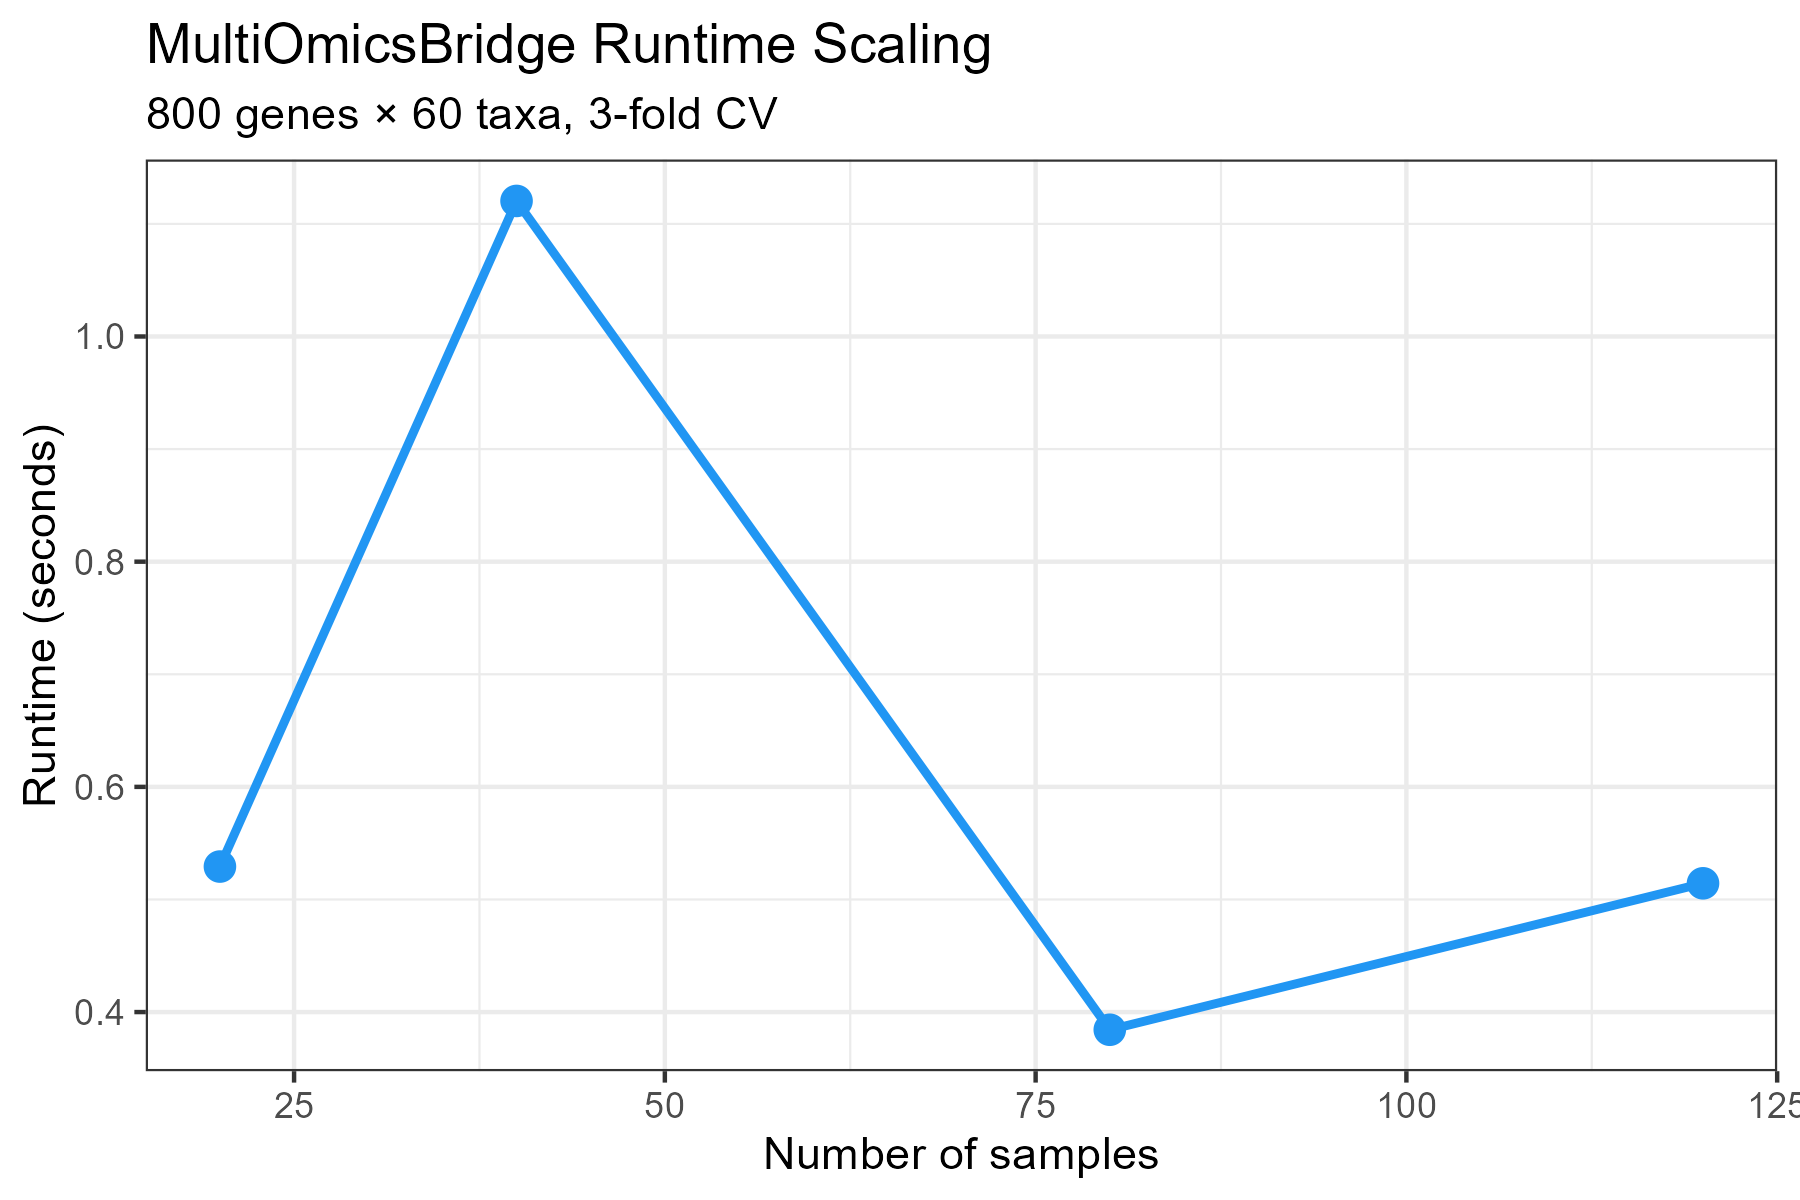
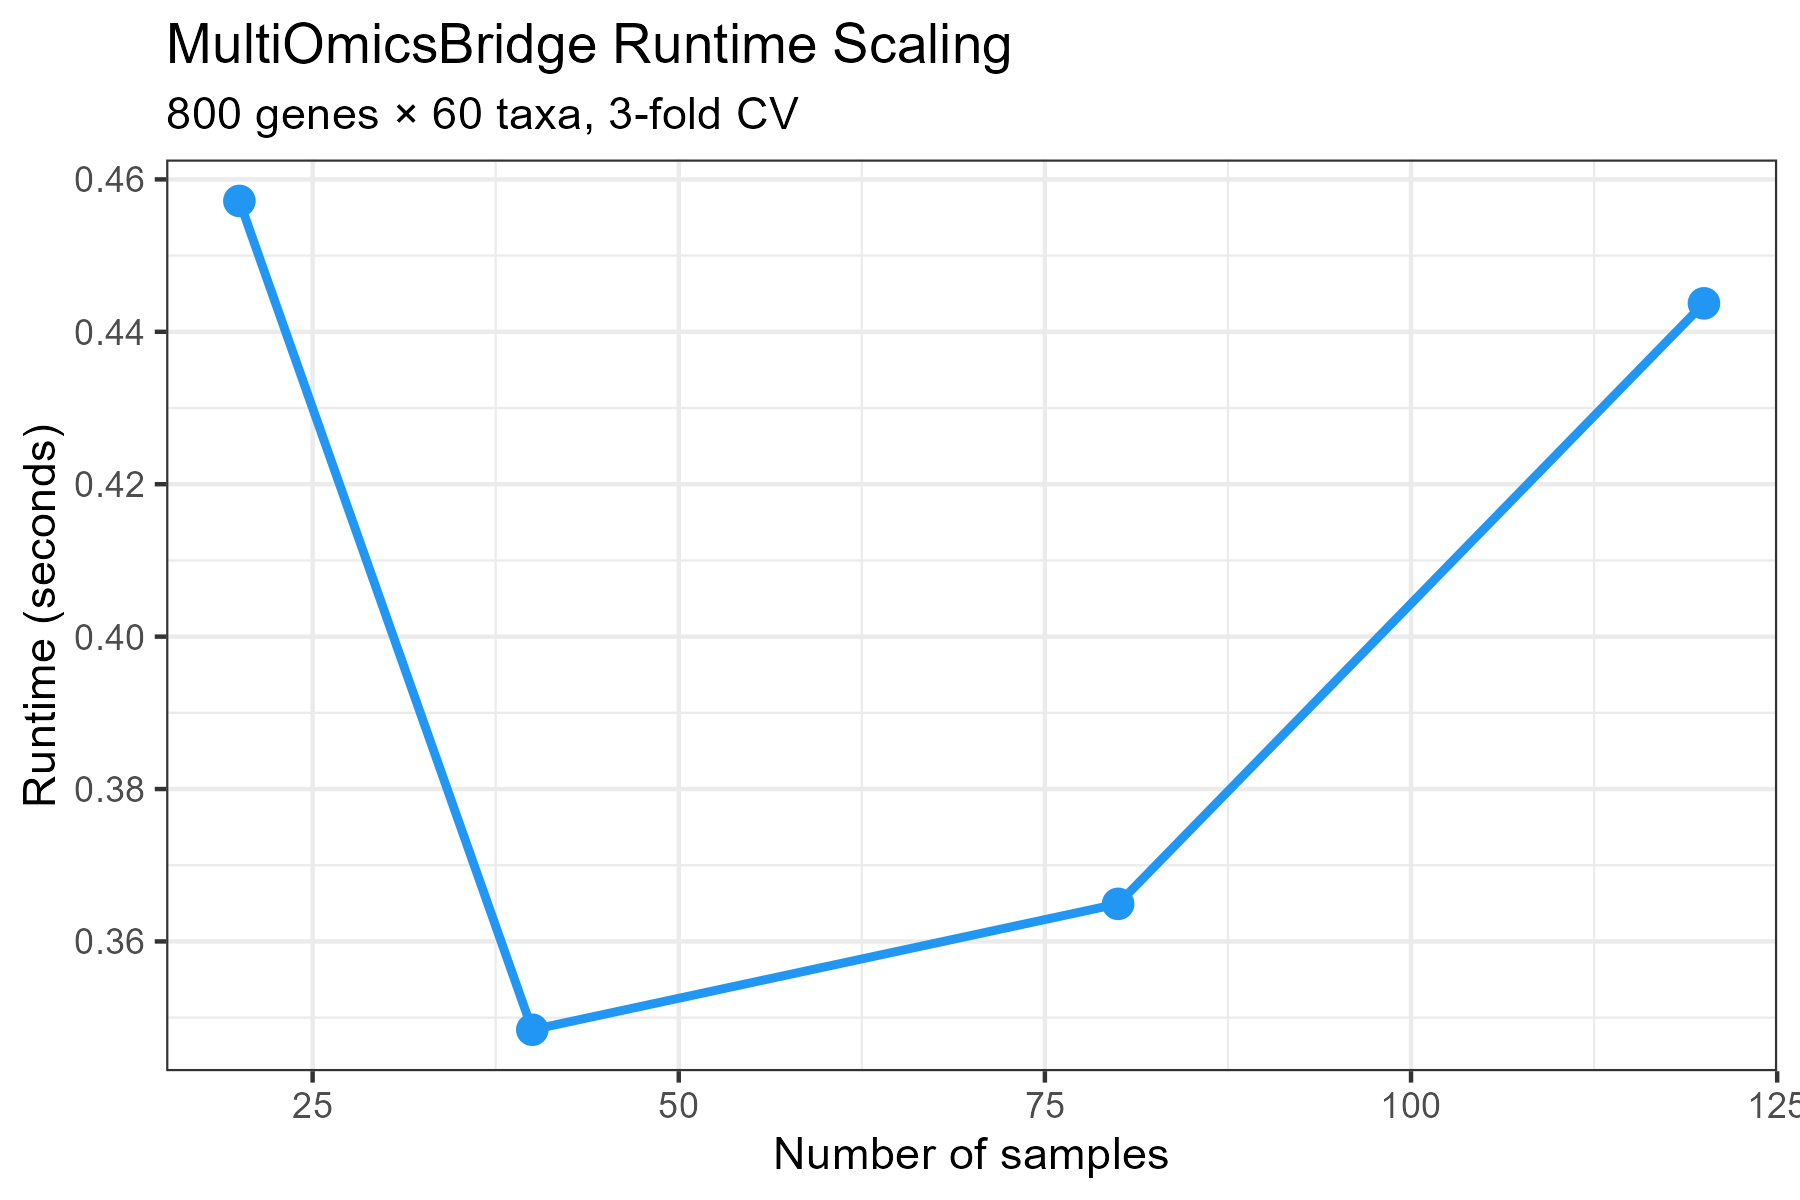
Bump version to 0.99.1 and address initial package checks

diff --git a/README.md b/README.md
@@ -21,7 +21,7 @@ workflow. MultiOmicsBridge fills this gap:
 | Microbiome-aware normalization | CLR transformation (compositionally correct) alongside TMM/voom for RNA-seq |
 | Joint dimensionality reduction | Sparse multi-block PLS-DA (DIABLO) across both data layers |
 | Cross-omics biomarker selection | Loading scores + Spearman correlation network between host genes and microbial taxa |
-| Multi-omics diagnostic value | Host-only vs microbiome-only vs joint classifier comparison with nested CV |
+| Multi-omics diagnostic value | Host-only vs microbiome-only vs joint classifier comparison with stratified k-fold CV |
 
 ## The Five Modules
 
@@ -284,10 +284,15 @@ The **Sankey Flow Diagram** elegantly maps the relationship between the top indi
 
 ## References
 
-- Rohart F et al. (2017). mixOmics. *PLoS Comput Biol* 13(11):e1005752.
-- Franzosa EA et al. (2019). *Nature Microbiology* 4:293–305.
-- Wright MN & Ziegler A (2017). ranger. *J Stat Softw* 77(1):1–17.
 - Aitchison J (1982). The statistical analysis of compositional data. *JRSS-B* 44(2):139–177.
+- Breiman L (2001). Random Forests. *Machine Learning* 45:5–32.
+- Franzosa EA et al. (2019). *Nature Microbiology* 4:293–305.
+- Law CW et al. (2014). voom: precision weights unlock linear model analysis tools for RNA-seq read counts. *Genome Biology* 15:R29.
+- Ramos M et al. (2017). Software for the Integration of Multiomics Experiments in Bioconductor. *Cancer Research* 77(21):e39–e42.
+- Robinson MD & Oshlack A (2010). A scaling normalization method for differential expression analysis of RNA-seq data. *Genome Biology* 11:R25.
+- Rohart F et al. (2017). mixOmics. *PLoS Comput Biol* 13(11):e1005752.
+- Singh A et al. (2019). DIABLO: an integrative approach for identifying key molecular drivers from multi-omics assays. *Bioinformatics* 35(17):3055–3062.
+- Wright MN & Ziegler A (2017). ranger. *J Stat Softw* 77(1):1–17.
 
 ## Citation
 

diff --git a/NEWS.md b/NEWS.md
@@ -1,3 +1,9 @@
+# MultiOmicsBridge 0.99.1
+
+## Bug fixes
+
+* Improve overall stability.
+
 # MultiOmicsBridge 0.99.0
 
 ## New features
@@ -25,7 +31,7 @@
   Returns a ranked `DataFrame` of multi-omics biomarkers.
 
 * `diagnosticClassifier()`: Train and evaluate host-only, microbiome-only,
-  and joint Random Forest classifiers using nested cross-validation.
+  and joint Random Forest classifiers using stratified k-fold cross-validation.
   Provides AUC-ROC comparison quantifying the multi-omics advantage.
 
 * `MultiOmicsBridgeAnalysis()`: One-call wrapper executing the full
